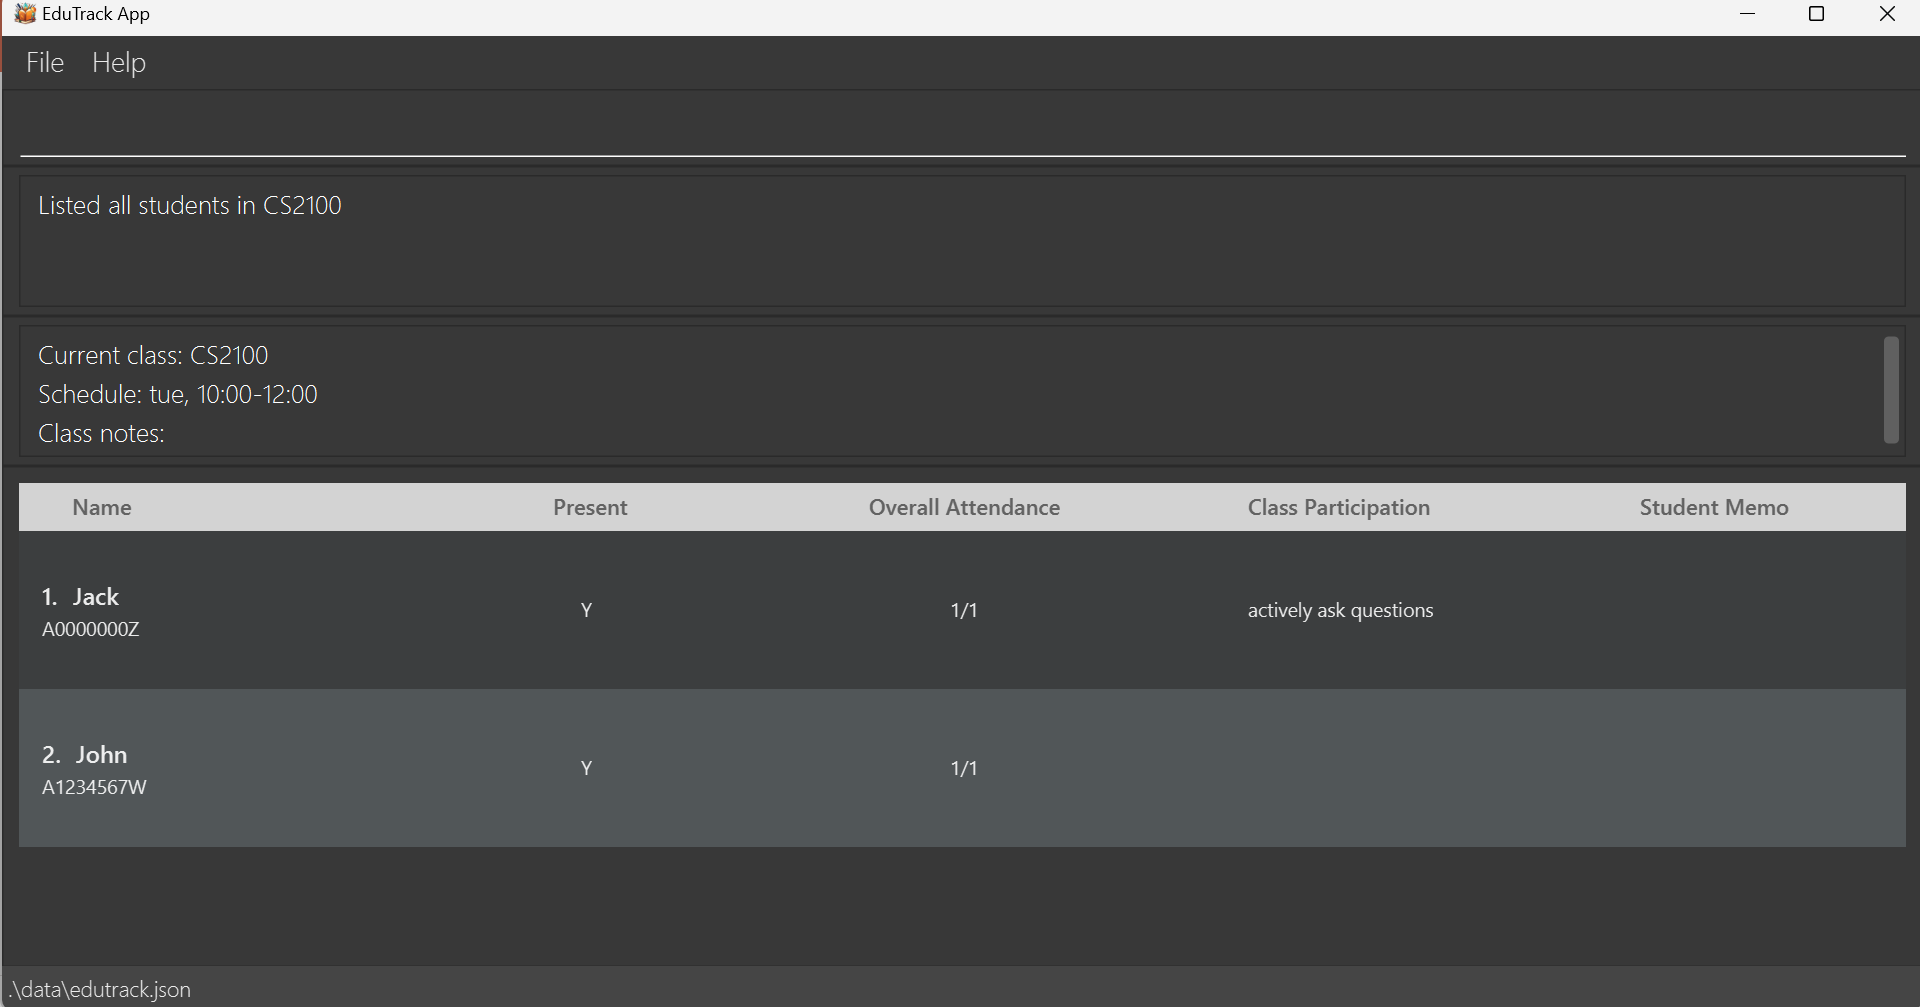
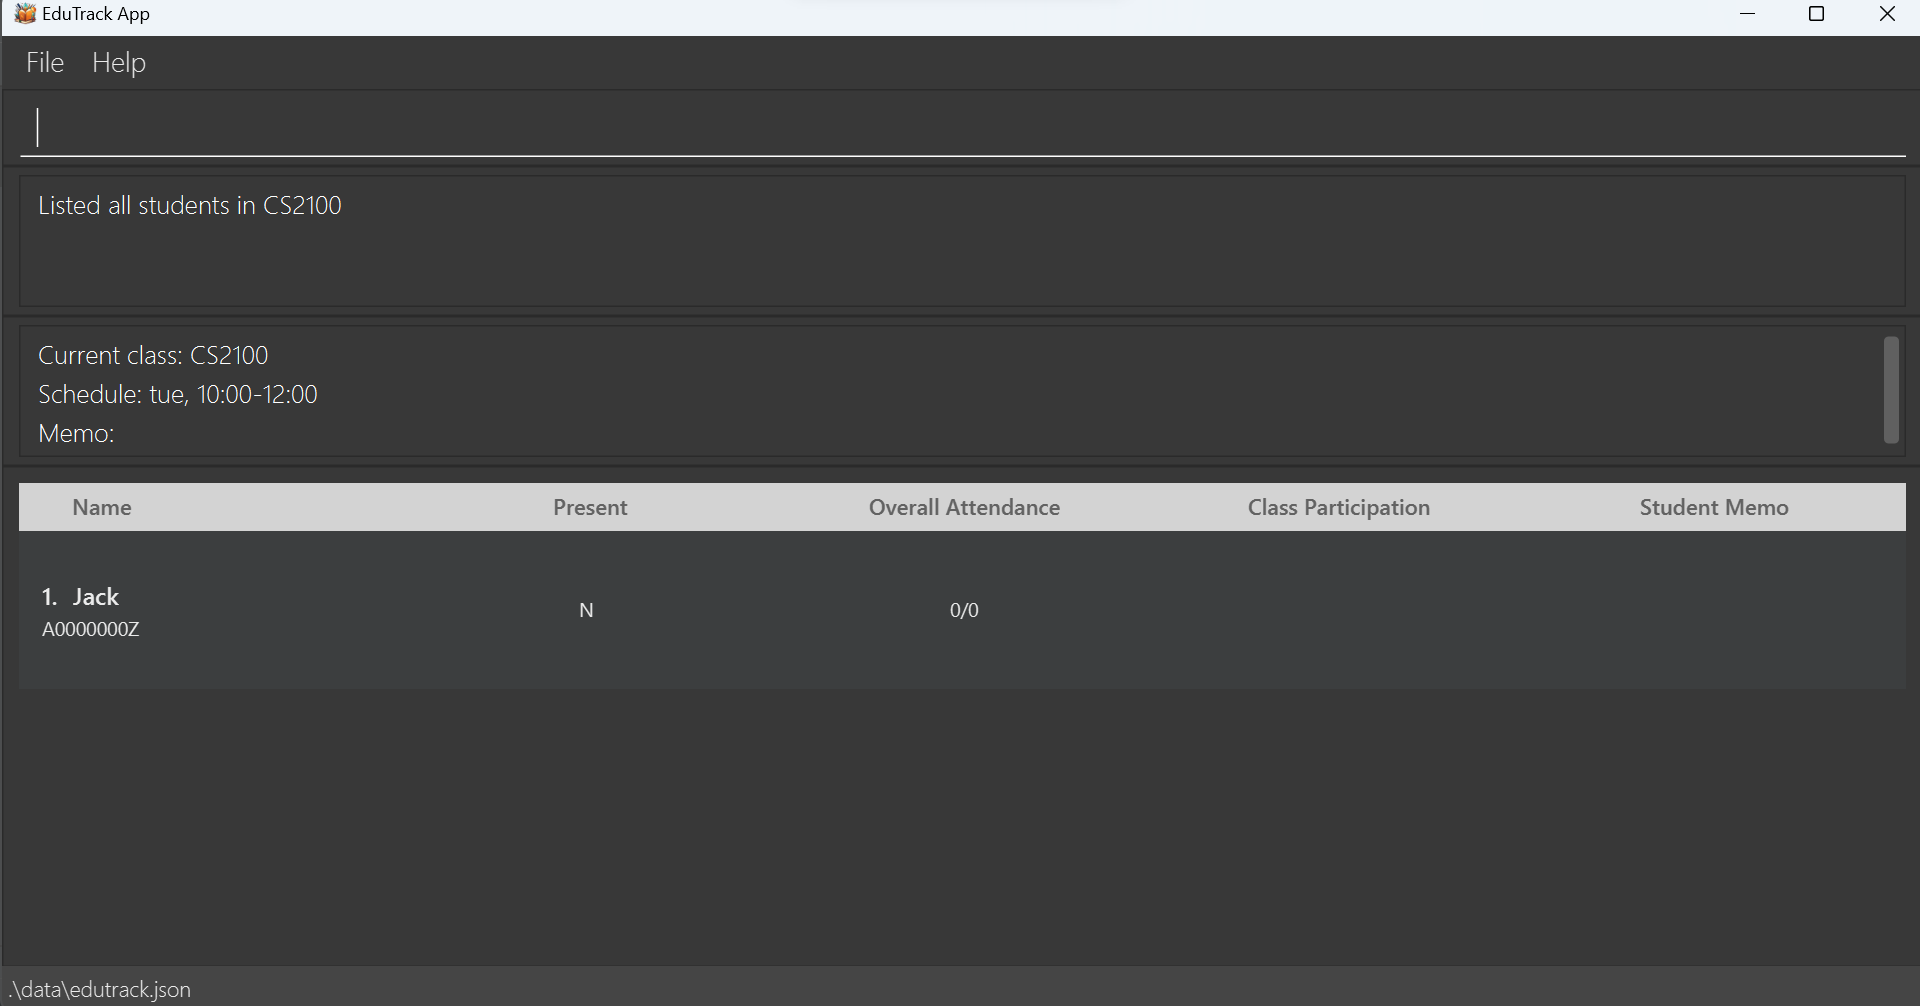
update screenshots for edit class command, change AddressBook to EduTrack in Clear command message

diff --git a/src/main/java/seedu/address/logic/commands/ClearCommand.java b/src/main/java/seedu/address/logic/commands/ClearCommand.java
@@ -11,7 +11,7 @@ import seedu.address.model.Model;
 public class ClearCommand extends Command {
 
     public static final String COMMAND_WORD = "clear";
-    public static final String MESSAGE_SUCCESS = "Address book has been cleared!";
+    public static final String MESSAGE_SUCCESS = "EduTrack's data has been cleared!";
 
 
     @Override

diff --git a/src/main/java/seedu/address/model/module/Class.java b/src/main/java/seedu/address/model/module/Class.java
@@ -213,6 +213,6 @@ public class Class {
 
     public String getClassInfo() {
         return "Current class: " + className.toString() + "\n" + "Schedule: " + classSchedule.toString()
-                + "\n" + "Class notes: " + classMemo.toString();
+                + "\n" + "Memo: " + classMemo.toString();
     }
 }

diff --git a/docs/UserGuide.md b/docs/UserGuide.md
@@ -47,6 +47,7 @@ If you are keen to get started on using EduTrack, click [here](#quick-start) for
    - [Miscellaneous commands](#miscellaneous-commands)
      - [Viewing help : `help`](#viewing-help-help)
      - [Exiting the program : `exit`](#exiting-the-program-exit)
+     - [Clearing all entries : `clear`](#clearing-all-entries-clear)
      - [Saving the data](#saving-the-data)
 4. [FAQ](#faq)
 5. [Known issues](#known-issues)
@@ -235,7 +236,7 @@ add /c cs2103t
 CS2103T has been added
 ````
 
-4. You have successfully added the class.
+4. You have successfully added the class. :tada:
 
 <box type="warning">
 
@@ -340,7 +341,7 @@ edit /c 2 /n cs2040s
 
 ![](images/editClassUsage_2.png)
 
-4. You have successfully edited the class name.
+4. You have successfully edited the class name. :tada:
 
 <box type="info">
 
@@ -564,7 +565,7 @@ as absent so that you can mark attendance.
    ```
    CS2103T started a new lesson!
    ```
-4. You have successfully started a lesson in CS2103T.
+4. You have successfully started a lesson in CS2103T. :tada:
 
 **Successful Output:**
 
@@ -613,7 +614,7 @@ This can be useful when you [start a lesson](#starting-a-lesson-startlesson-c) b
    ```
    Successfully set the number of lessons in CS2103T to 5!
    ```
-4. You have successfully set the total number of  lessons in CS2103T to 5.
+4. You have successfully set the total number of  lessons in CS2103T to 5. :tada:
 
 **Successful Output:**
 - Successfully set the number of lessons in CLASS_NAME to NUMBER_OF_LESSONS!
@@ -643,6 +644,8 @@ This can be useful when you [start a lesson](#starting-a-lesson-startlesson-c) b
 
 <br>
 
+return to [Table of Contents](#table-of-contents)
+
 ## Student commands :mortar_board:
 
 ### Adding a student : `add /s`
@@ -667,7 +670,7 @@ Adds a new student to an existing class.
    ````
    Added New Student: John; Id: A0000000Z; Memo:  to the class: CS2103T
    ````
-4. You have successfully added the student into the class `CS2103T`.
+4. You have successfully added the student into the class `CS2103T`. :tada:
 
 <box type="info">
 
@@ -722,7 +725,7 @@ Removes a student in your chosen class.
    ```
    John has been removed from CS2103T
    ```
-4. You have successfully removed John from CS2103T.
+4. You have successfully removed John from CS2103T. :tada:
 
 **Successful Output:**
 
@@ -768,7 +771,7 @@ Sample Usage:
    ```
    Edited Student: John; Id: A010193Z; Memo:
    ```
-4. You have successfully edited the student's details.
+4. You have successfully edited the student's details. :tada:
 
 <box type="info">
 
@@ -791,8 +794,9 @@ Sample Usage:
 
 </box>
 
-
 <br>
+
+return to [Table of Contents](#table-of-contents)
 
 ## Miscellaneous commands 🛠
 
@@ -833,11 +837,19 @@ Removes all your entries from EduTrack when you want to start fresh.
 
 </box>
 
+**Successful Output:**
+
+- EduTrack's data has been cleared!
+
 <br>
 
 ### Saving the data
 
 EduTrack's got your back. Your data is automatically saved on your hard disk after any command that changes the data, so no need to worry about saving manually.
+
+<br> 
+
+return to [Table of Contents](#table-of-contents)
 
 ---
 
@@ -861,17 +873,17 @@ There is no need to save manually.
 
 ## Command summary
 
-| Action          | Format, Examples                                                                                                                                                                                                                                                                                                                                     |
-|-----------------|------------------------------------------------------------------------------------------------------------------------------------------------------------------------------------------------------------------------------------------------------------------------------------------------------------------------------------------------------|
-| **add**         | **Adding a class:** <br> **Format:** `add /c CLASS_NAME` <br> **E.g:** `add /c CS2103T` <br> <br> **Adding a student:** <br> **Format:** `add /s STUDENT_NAME  /c CLASS_NAME` <br> **E.g:** `add /s John /c CS2103T` <br><br> **Adding a list of students** <br> Coming soon                                                                         |
-| **remove**      | **Removing a class:** <br> **Format:** `remove /c CLASS_INDEX` <br> **E.g:** `remove /c 1` <br> <br> **Removing a student:** <br> **Format:** `remove /s STUDENT_INDEX  /c CLASS_NAME` <br> **E.g:** `remove /s 1 /c CS2103T`                                                                                                                        |
-| **view**        | **Viewing a class:** <br> **Format:** `view /c CLASS_INDEX` <br> **E.g:** `view /c 1`                                                                                                                                                                                                                                                                |
-| **edit**        | **Editing a class:** <br> **Format:** `edit /c CLASS_INDEX [/n CLASS_NAME] [/m MEMO] [/t SCHEDULE]` <br> **E.g:** `edit /c 2 /m submit marking report` <br> **Editing a student:** <br> **Format:** `edit /s STUDENT_INDEX /c CLASS_NAME [/n STUDENT_NAME] [/id ID] [/m MEMO] [/p PARTICIPATION]` <br> **E.g:** `edit /s 1 /c cs2103t /id A1234567W` |
-| **mark**        | **Marking your student present:** <br> **Format:** `mark /s STUDENT_INDEX /c CLASS_NAME` <br> **E.g:** `mark /s 1 /c CS2103T`                                                                                                                                                                                                                        |
-| **unmark**      | **Marking your student absent:** <br> **Format:** `unmark /s STUDENT_INDEX /c CLASS_NAME` <br> **E.g:** `unmark /s 1 /c CS2103T`                                                                                                                                                                                                                     |
-| **markall**     | **Marking all your students in a class present:** <br> **Format:** `markall /c CLASS_INDEX` <br> **E.g:** `markall /c 1`                                                                                                                                                                                                                             |
-| **startlesson** | **Starting a lesson of a class:** <br> **Format:** `startlesson /c CLASS_NAME` <br> **E.g:** `startlesson /c CS2103T`                                                                                                                                                                                                                                |
-| **setlesson**   | **Setting the number of lessons in a class:** <br> **Format:** `setlesson /c CLASS_NAME /l NUMBER_OF_LESSONS` <br> **E.g:** `setlesson /c CS2103T /l 5`                                                                                                                                                                                              |
+| Action          | Format, Examples                                                                                                                                                                                                                                                                                                                                         |
+|-----------------|----------------------------------------------------------------------------------------------------------------------------------------------------------------------------------------------------------------------------------------------------------------------------------------------------------------------------------------------------------|
+| **add**         | **Adding a class:** <br> **Format:** `add /c CLASS_NAME` <br> **E.g:** `add /c CS2103T` <br> <br> **Adding a student:** <br> **Format:** `add /s STUDENT_NAME  /c CLASS_NAME` <br> **E.g:** `add /s John /c CS2103T` <br><br> **Adding a list of students:** <br> Coming soon                                                                            |
+| **remove**      | **Removing a class:** <br> **Format:** `remove /c CLASS_INDEX` <br> **E.g:** `remove /c 1` <br> <br> **Removing a student:** <br> **Format:** `remove /s STUDENT_INDEX  /c CLASS_NAME` <br> **E.g:** `remove /s 1 /c CS2103T`                                                                                                                            |
+| **view**        | **Viewing a class:** <br> **Format:** `view /c CLASS_INDEX` <br> **E.g:** `view /c 1`                                                                                                                                                                                                                                                                    |
+| **edit**        | **Editing a class:** <br> **Format:** `edit /c CLASS_INDEX [/n CLASS_NAME] [/m MEMO] [/t SCHEDULE]` <br> **E.g:** `edit /c 2 /m submit marking report` <br><br> **Editing a student:** <br> **Format:** `edit /s STUDENT_INDEX /c CLASS_NAME [/n STUDENT_NAME] [/id ID] [/m MEMO] [/p PARTICIPATION]` <br> **E.g:** `edit /s 1 /c cs2103t /id A1234567W` |
+| **mark**        | **Marking your student present:** <br> **Format:** `mark /s STUDENT_INDEX /c CLASS_NAME` <br> **E.g:** `mark /s 1 /c CS2103T`                                                                                                                                                                                                                            |
+| **unmark**      | **Marking your student absent:** <br> **Format:** `unmark /s STUDENT_INDEX /c CLASS_NAME` <br> **E.g:** `unmark /s 1 /c CS2103T`                                                                                                                                                                                                                         |
+| **markall**     | **Marking all your students in a class present:** <br> **Format:** `markall /c CLASS_INDEX` <br> **E.g:** `markall /c 1`                                                                                                                                                                                                                                 |
+| **startlesson** | **Starting a lesson of a class:** <br> **Format:** `startlesson /c CLASS_NAME` <br> **E.g:** `startlesson /c CS2103T`                                                                                                                                                                                                                                    |
+| **setlesson**   | **Setting the number of lessons in a class:** <br> **Format:** `setlesson /c CLASS_NAME /l NUMBER_OF_LESSONS` <br> **E.g:** `setlesson /c CS2103T /l 5`                                                                                                                                                                                                  |
 
 
 ---
